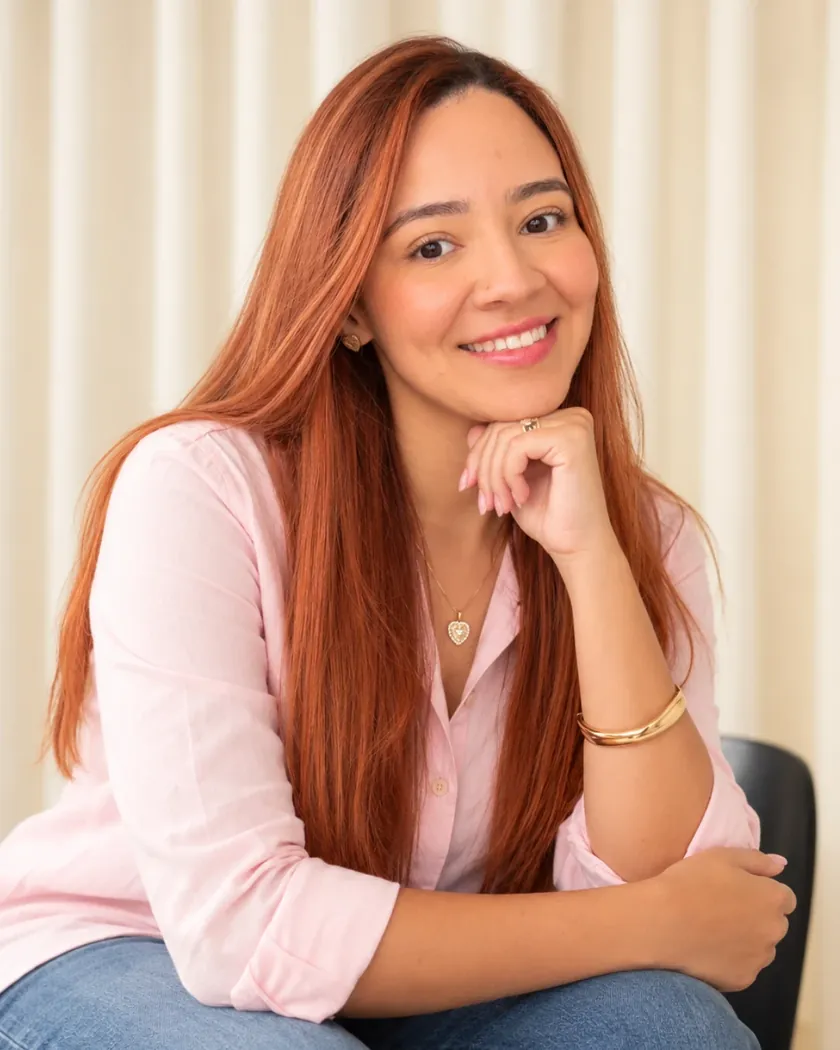
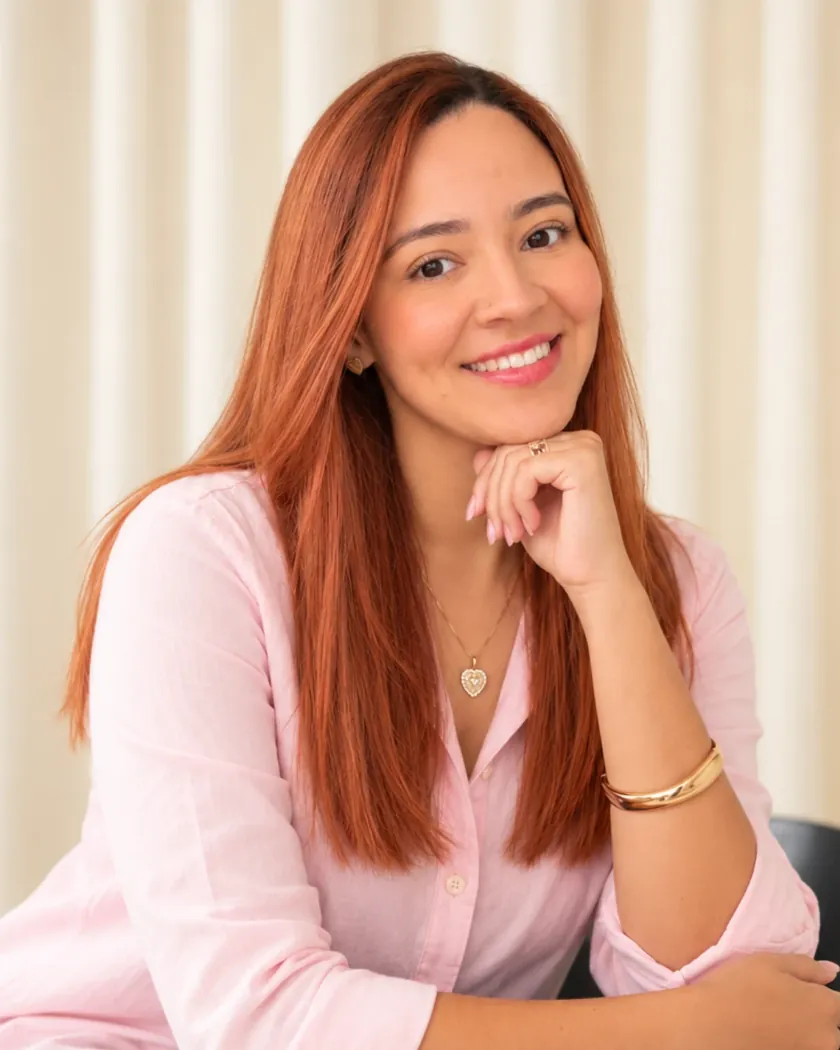
Troca as fotos da abertura e do sobre e coloca a foto com iPad no lugar do celular ilustrativo
Claude-Session: https://claude.ai/code/session_018A8o3v5DxFzutaLWNtbW6E

diff --git a/analise-estrategica-de-perfil/pagina-analise-estrategica.html b/analise-estrategica-de-perfil/pagina-analise-estrategica.html
@@ -201,19 +201,16 @@
 .amm-item h3{font-size:1.05rem}
 .amm-item p{font-size:.94rem}
 
-/* 5. Para quem é: celular decorativo */
-.amm-celular{
-  width:200px;margin:0 auto;padding:12px;border-radius:36px;background:var(--amm-vinho);
-  box-shadow:0 30px 50px rgba(103,27,41,.22);transform:rotate(-4deg);
+/* 5. Para quem é: foto da Mel com o iPad */
+.amm-foto-ipad{position:relative;max-width:320px;width:100%;margin:0 auto}
+.amm-foto-ipad::before{
+  content:"";position:absolute;inset:0;transform:translate(14px,14px);
+  background:var(--amm-rosa-medio);border-radius:24px;
 }
-.amm-celular-tela{background:var(--amm-rosa);border-radius:26px;padding:26px 16px 18px;text-align:center}
-.amm-celular-tela img{width:54px;margin:0 auto 10px}
-.amm-celular-nome{font-family:var(--amm-titulo);font-style:italic;color:var(--amm-vinho);font-size:1.05rem;line-height:1.25}
-.amm-celular-linha{height:6px;border-radius:6px;background:var(--amm-rosa-borda);margin:12px auto 0;width:80%}
-.amm-celular-linha + .amm-celular-linha{width:60%;margin-top:6px}
-.amm-celular-grade{display:grid;grid-template-columns:repeat(3,1fr);gap:4px;margin-top:16px}
-.amm-celular-grade span{aspect-ratio:1;background:var(--amm-branco);border-radius:4px}
-.amm-celular-grade span:nth-child(odd){background:var(--amm-rosa-medio)}
+.amm-foto-ipad img{
+  position:relative;width:100%;aspect-ratio:4/5;object-fit:cover;border-radius:24px;
+  background:var(--amm-rosa-medio);
+}
 
 /* 6. Passos */
 .amm-passos{display:grid;gap:22px;margin-top:8px}
@@ -285,7 +282,7 @@
   .amm-situacoes{grid-template-columns:1fr 1fr}
   .amm-item{width:25%}
   .amm-ganhos{grid-template-columns:1fr 1fr}
-  .amm-celular{width:260px}
+  .amm-foto-ipad{max-width:420px}
   .amm-hero-foto{max-width:420px}
   .amm-sobre-foto{max-width:400px}
 
@@ -424,16 +421,10 @@
   <!-- 5. PARA QUEM É -->
   <section class="amm-secao amm-secao--branca">
     <div class="amm-container amm-duas">
-      <div class="amm-celular" aria-hidden="true">
-        <div class="amm-celular-tela">
-          <!-- PENDENTE: troque o src pela URL da abelha na Biblioteca de Mídia -->
-          <img src="imagens/abelha.png" alt="" width="160" height="126" loading="lazy">
-          <p class="amm-celular-nome">Análise Estratégica de Perfil</p>
-          <div class="amm-celular-linha"></div>
-          <div class="amm-celular-linha"></div>
-          <div class="amm-celular-grade"><span></span><span></span><span></span><span></span><span></span><span></span><span></span><span></span><span></span></div>
-        </div>
-      </div>
+      <figure class="amm-foto-ipad">
+        <!-- PENDENTE: troque o src pela URL da foto na Biblioteca de Mídia (arquivo imagens/foto-mel-ipad.webp) -->
+        <img src="imagens/foto-mel-ipad.webp" alt="Melanie Fernanda analisando um perfil no iPad" width="800" height="1000" loading="lazy">
+      </figure>
       <div>
         <h2>Essa análise é <em>para você</em> que…</h2>
         <ul class="amm-lista">
@@ -547,8 +538,7 @@
         <p>Meu objetivo é te ajudar a entender o que faz sentido para o seu negócio e transformar essa compreensão em ações práticas.</p>
       </div>
       <figure class="amm-sobre-foto">
-        <!-- PENDENTE: troque o src pela URL da foto na Biblioteca de Mídia (arquivo imagens/foto-mel-sobre.webp).
-             Se quiser, use aqui uma segunda foto sua, diferente da foto do topo. -->
+        <!-- PENDENTE: troque o src pela URL da foto na Biblioteca de Mídia (arquivo imagens/foto-mel-sobre.webp) -->
         <img src="imagens/foto-mel-sobre.webp" alt="Melanie Fernanda, estrategista digital da A Mel do MKT" width="800" height="1000" loading="lazy">
       </figure>
     </div>

diff --git a/analise-estrategica-de-perfil/LEIA-ME.md b/analise-estrategica-de-perfil/LEIA-ME.md
@@ -4,7 +4,7 @@
 
 - `pagina-analise-estrategica.html`: a página completa. Abra no navegador para visualizar.
 - `imagens/logo-a-mel-do-mkt.png`: logo oficial recortada, com fundo transparente, sem alteração de proporção.
-- `imagens/foto-mel-topo.webp` e `imagens/foto-mel-sobre.webp`: sua foto otimizada para a web (a segunda com um enquadramento mais próximo).
+- `imagens/foto-mel-topo.webp`, `imagens/foto-mel-ipad.webp` e `imagens/foto-mel-sobre.webp`: suas fotos otimizadas para a web (abertura, seção "Essa análise é para você que…" e seção sobre você).
 - `imagens/abelha.png`: a abelhinha da própria logo, usada como detalhe em poucas seções.
 
 ## Como publicar no WordPress
@@ -15,7 +15,7 @@
 4. No arquivo `.html`, copie tudo entre `INÍCIO` e `FIM` e cole no bloco.
 5. Procure por `PENDENTE` e substitua:
    - `INSERIR-LINK-DE-PAGAMENTO` pelo link de pagamento (aparece em 5 botões; use "Substituir tudo").
-   - `imagens/logo-a-mel-do-mkt.png`, `imagens/abelha.png`, `imagens/foto-mel-topo.webp` e `imagens/foto-mel-sobre.webp` pelas URLs da Biblioteca de Mídia.
+   - `imagens/logo-a-mel-do-mkt.png`, `imagens/abelha.png`, `imagens/foto-mel-topo.webp`, `imagens/foto-mel-ipad.webp` e `imagens/foto-mel-sobre.webp` pelas URLs da Biblioteca de Mídia.
 6. Para ativar um bloco pendente (informações operacionais, perguntas de agendamento e cancelamento, links do rodapé): preencha os campos, apague a linha que começa com `<!-- PENDENTE` e a linha `FIM DO BLOCO PENDENTE -->`.
 
 Todo o estilo fica dentro da classe `.amm`, então não altera o restante do tema. A página não usa JavaScript; as perguntas frequentes abrem e fecham com recurso nativo do navegador.
@@ -24,7 +24,6 @@ Todo o estilo fica dentro da classe `.amm`, então não altera o restante do tem
 
 - **Títulos:** Playfair Display reta, com itálico só nas palavras de destaque (marcadas com `<em>` no código). Para mudar o destaque, basta mover o `<em>`.
 - **Seção sobre você:** seguindo a referência, o título principal virou o seu nome e "Quem vai olhar para o seu perfil" ficou como chamada acima dele.
-- **Celular ilustrativo** na seção "Essa análise é para você que…", no lugar do notebook da referência. É só um desenho em código, com a abelhinha.
 - **Fonte dos textos:** Clear Sans não está disponível no Google Fonts. A página usa Clear Sans se o tema já a carregar; caso contrário, usa **Source Sans 3**, que tem desenho parecido.
 - **Cores extras:** vinho mais escuro para o botão ao passar o mouse (`#4f1420`), rosa médio para fundos e moldura da foto (`#f8d9eb`), rosa de borda (`#f1cfe3`) e um creme claro (`#fff8fb`). As quatro cores oficiais seguem como base.
 - **Frase de introdução das situações:** "Talvez você se reconheça em alguma destas situações:", para não afirmar que a visitante passa por todas.
